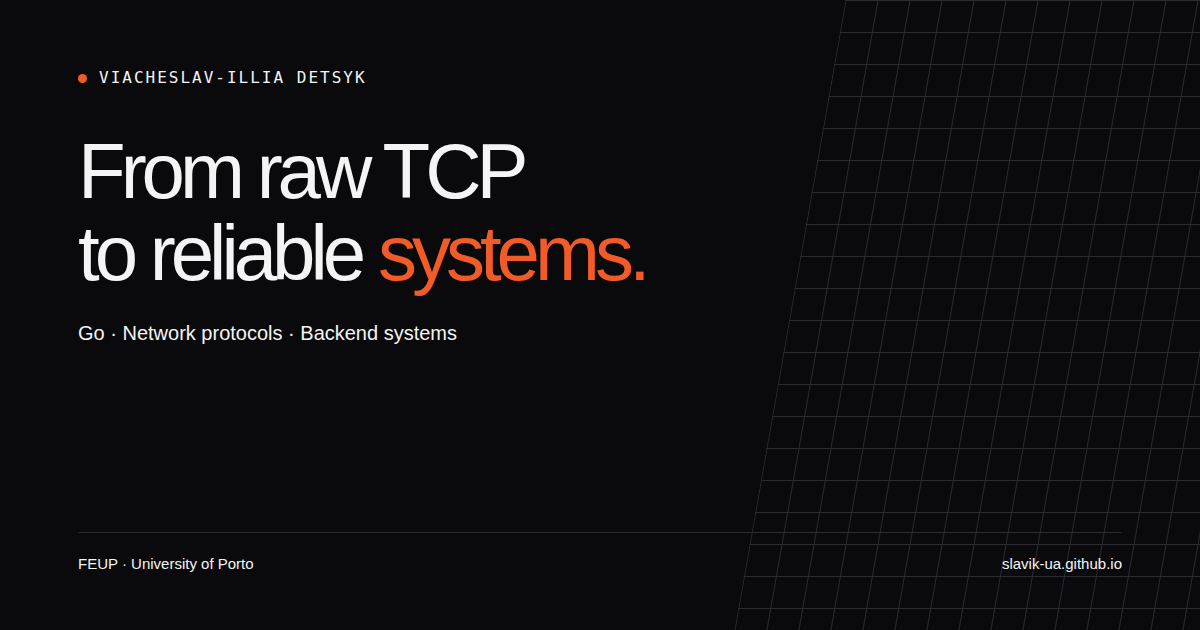
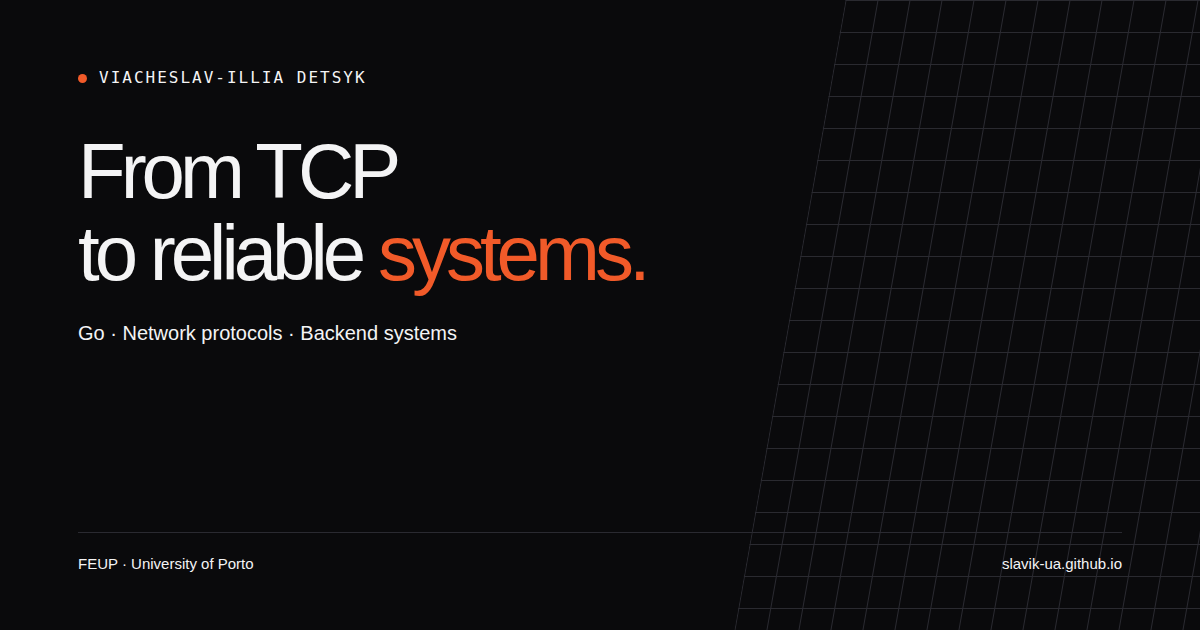
Separate skills and clarify verified project descriptions

Changed region(s): [[0.2158, 0.2111, 0.4625, 0.3317]]

diff --git a/index.html b/index.html
@@ -9,7 +9,7 @@
   <link rel="canonical" href="https://slavik-ua.github.io/">
   <meta property="og:type" content="website">
   <meta property="og:title" content="Viacheslav-Illia Detsyk — Backend &amp; Systems">
-  <meta property="og:description" content="From raw TCP to reliable systems. Go projects, network protocols, and a merged Linux kernel fix.">
+  <meta property="og:description" content="From TCP to reliable systems. Go projects, network protocols, and a merged Linux kernel fix.">
   <meta property="og:url" content="https://slavik-ua.github.io/">
   <meta property="og:image" content="https://slavik-ua.github.io/assets/social-card.png">
   <meta property="og:image:alt" content="Viacheslav-Illia Detsyk. Backend systems, network protocols, and Go.">
@@ -50,7 +50,7 @@
 
   <header class="site-header"><div class="container header-inner">
     <a class="identity" href="#top"><span class="identity-name">Viacheslav-Illia Detsyk</span></a>
-    <nav class="nav-links" id="navigation" aria-label="Main navigation"><a href="#work">Work</a><a href="#open-source">Open source</a><a href="#about">About</a><a href="#contact">Contact <svg class="icon " aria-hidden="true"><use href="#i-arrow"/></svg></a></nav>
+    <nav class="nav-links" id="navigation" aria-label="Main navigation"><a href="#work">Work</a><a href="#skills">Skills</a><a href="#open-source">Open source</a><a href="#about">About</a><a href="#contact">Contact <svg class="icon " aria-hidden="true"><use href="#i-arrow"/></svg></a></nav>
     <div class="header-profile" hidden><button id="copy-profile" type="button" class="button button-primary header-copy" hidden><svg class="icon" aria-hidden="true"><use href="#i-copy"/></svg> Copy profile for AI</button><span id="profile-status" role="status"></span></div>
     <div class="header-controls"><button id="theme-toggle" class="icon-button" type="button" aria-label="Switch theme" title="Switch theme" hidden><svg class="icon theme-sun" aria-hidden="true"><use href="#i-sun"/></svg><svg class="icon theme-moon" aria-hidden="true"><use href="#i-moon"/></svg></button><button class="menu-toggle" type="button" aria-expanded="false" aria-controls="navigation">Menu <svg class="icon " aria-hidden="true"><use href="#i-menu"/></svg></button></div>
   </div></header>
@@ -59,7 +59,7 @@
     <section class="hero container" id="top" aria-labelledby="hero-title">
       <div class="hero-copy">
         <p class="eyebrow">BACKEND &amp; SYSTEMS · PORTO, PT</p>
-        <h1 id="hero-title">From raw TCP<br>to reliable<br><span>systems.</span></h1>
+        <h1 id="hero-title">From TCP<br>to reliable<br><span>systems.</span></h1>
         <p class="hero-intro">I’m Viacheslav-Illia, a third-year engineering student at FEUP. I build in Go, explore how network protocols work, and care about getting the details right.</p>
         <div class="hero-actions"><a class="button button-primary" href="#work">Explore my work <svg class="icon" aria-hidden="true"><use href="#i-arrow"/></svg></a><a class="text-link" href="assets/viacheslav-illia-detsyk-resume.pdf" download>Download résumé <svg class="icon" aria-hidden="true"><use href="#i-down"/></svg></a></div>
         <p class="availability"><span aria-hidden="true"></span> Seeking a backend engineering internship</p>
@@ -90,7 +90,7 @@
           <p class="project-subtitle">A trading platform, from order to execution.</p>
           <p>A Go limit order book with price-time priority, partial fills, and cancellation, connected to a live market-depth dashboard.</p>
           <ul class="project-points">
-            <li><span>Correct arithmetic</span>8-decimal fixed-point balances and settlement.</li>
+            <li><span>Fixed-point amounts</span>8-decimal integer amounts for balances and trade settlement.</li>
             <li><span>Explicit event delivery</span>PostgreSQL outbox → Kafka-compatible Redpanda.</li>
             <li><span>Visibility into the system</span>Prometheus, Grafana, Redis Pub/Sub, and WebSockets.</li>
           </ul>
@@ -115,30 +115,36 @@
         <article class="secondary-project" aria-labelledby="torrent-title">
           <div class="project-card-top"><span class="project-icon"><svg class="icon " aria-hidden="true"><use href="#i-network"/></svg></span><span class="project-type mono">NETWORK PROTOCOLS</span><span class="mono project-serial">02</span></div>
           <h3 id="torrent-title">BitTorrent client</h3>
-          <p>Built with Go’s standard library: bencode parsing, HTTP/UDP trackers, and the peer protocol over raw TCP.</p>
-          <p class="project-detail">Concurrent downloads with verified-piece resume, retries, and cancellation. Tested failure paths with scripted peers, Go’s race detector, and a Docker swarm.</p>
+          <p>Built a Go client with bencode parsing, HTTP/UDP trackers, and the BitTorrent peer protocol over TCP sockets.</p>
+          <p class="project-detail">Added concurrent downloads, SHA-1 piece verification, retries, cancellation, and resume. Tested with scripted peers and Go’s race detector, plus a local tracker and Transmission peers.</p>
           <div class="project-card-bottom"><div class="tags"><span>Go</span><span>TCP / UDP</span><span>Concurrency</span></div><a class="icon-button" href="https://github.com/slavik-ua/BitTorrentClient" aria-label="View BitTorrent client source on GitHub"><svg class="icon " aria-hidden="true"><use href="#i-arrow"/></svg></a></div>
         </article>
 
         <article class="secondary-project" aria-labelledby="http-title">
           <div class="project-card-top"><span class="project-icon"><svg class="icon " aria-hidden="true"><use href="#i-terminal"/></svg></span><span class="project-type mono">PROTOCOL IMPLEMENTATION</span><span class="mono project-serial">03</span></div>
           <h3 id="http-title">HTTP/1.1, from TCP</h3>
-          <p>A Go server with a custom request parser and a response writer that enforces status, header, and body ordering.</p>
-          <p class="project-detail">Implemented chunked streaming, static files, and a reverse proxy that calculates SHA-256 checksums as it streams and sends them in HTTP trailers.</p>
+          <p>Built an HTTP/1.1 server in Go using TCP sockets, with custom request parsing and explicit response-writing order.</p>
+          <p class="project-detail">Added chunked responses, static file serving, and a streaming proxy that sends a SHA-256 checksum in HTTP trailers.</p>
           <div class="project-card-bottom"><div class="tags"><span>Go</span><span>HTTP / TCP</span><span>Streaming</span></div><a class="icon-button" href="https://github.com/slavik-ua/httpfromtcp" aria-label="View HTTP server source on GitHub"><svg class="icon " aria-hidden="true"><use href="#i-arrow"/></svg></a></div>
         </article>
       </div>
     </section>
 
+    <section class="section container skills-section" id="skills" aria-labelledby="skills-title">
+      <p class="eyebrow">02 / TECHNICAL SKILLS</p>
+      <div class="section-heading"><h2 id="skills-title">What I build with.</h2><p>Tools I use in my own projects and open-source work.</p></div>
+      <dl class="skills-list"><div><dt><svg class="icon" aria-hidden="true"><use href="#i-code"/></svg> Languages</dt><dd>Go, Python, Java, SQL, C/C++, TypeScript / JavaScript</dd></div><div><dt><svg class="icon" aria-hidden="true"><use href="#i-network"/></svg> Backend</dt><dd>PostgreSQL, Redis, Kafka / Redpanda, HTTP, WebSockets, sqlc</dd></div><div><dt><svg class="icon" aria-hidden="true"><use href="#i-terminal"/></svg> Tools</dt><dd>Docker, Linux, Git, Prometheus, Grafana</dd></div></dl>
+    </section>
+
     <section class="open-source-section" id="open-source" aria-labelledby="oss-title">
       <div class="container oss-inner">
-        <div><p class="eyebrow">02 / OPEN SOURCE</p><h2 id="oss-title">Linux kernel</h2></div>
+        <div><p class="eyebrow">03 / OPEN SOURCE</p><h2 id="oss-title">Linux kernel</h2></div>
         <div class="oss-detail"><p>Added a DMI quirk to the AMD ACP6x audio driver to enable the built-in microphone on Acer Nitro AN16-41 laptops. Merged upstream in November 2026.</p><a class="text-link" href="https://github.com/torvalds/linux/commit/05998d64426a8f245f267bafee434d8cb00a5cb6">View the merged contribution <svg class="icon" aria-hidden="true"><use href="#i-arrow"/></svg></a></div>
       </div>
     </section>
 
     <section class="section container about-section" id="about" aria-labelledby="about-title">
-      <p class="eyebrow">03 / A LITTLE ABOUT ME</p>
+      <p class="eyebrow">04 / A LITTLE ABOUT ME</p>
       <div class="about-grid">
         <div>
           <h2 id="about-title">Curious about<br>what’s underneath.</h2>
@@ -151,12 +157,11 @@
           <div class="education-record"><p class="mono">EDUCATION</p><h3>FEUP · University of Porto</h3><p>B.S. in Informatics and Computer Engineering</p><p class="education-meta">Feb 2024 — Jan 2028 (expected)<br>Current average: 16/20</p></div>
         </div>
       </div>
-          <dl class="skills-list"><div><dt><svg class="icon " aria-hidden="true"><use href="#i-code"/></svg> Languages</dt><dd>Go, Python, Java, SQL, C/C++, TypeScript / JavaScript</dd></div><div><dt><svg class="icon " aria-hidden="true"><use href="#i-network"/></svg> Backend</dt><dd>PostgreSQL, Redis, Kafka / Redpanda, HTTP, WebSockets, sqlc</dd></div><div><dt><svg class="icon " aria-hidden="true"><use href="#i-terminal"/></svg> Tools</dt><dd>Docker, Linux, Git, Prometheus, Grafana</dd></div></dl>
     </section>
 
     <section class="contact-section" id="contact" aria-labelledby="contact-title">
       <div class="container contact-inner">
-        <div><p class="eyebrow">04 / GET IN TOUCH</p><h2 id="contact-title">Let’s talk <span>systems.</span></h2><p>Have a backend internship in mind? I’d like to hear about it.</p></div>
+        <div><p class="eyebrow">05 / GET IN TOUCH</p><h2 id="contact-title">Let’s talk <span>systems.</span></h2><p>Have a backend internship in mind? I’d like to hear about it.</p></div>
         <div class="contact-actions"><a class="button button-primary" href="mailto:detsykvyacheslav@gmail.com"><svg class="icon " aria-hidden="true"><use href="#i-mail"/></svg> Send me an email <svg class="icon " aria-hidden="true"><use href="#i-arrow"/></svg></a><div class="email-row"><a href="mailto:detsykvyacheslav@gmail.com">detsykvyacheslav@gmail.com</a><button id="copy-email" class="icon-button" type="button" aria-label="Copy email address" hidden><svg class="icon " aria-hidden="true"><use href="#i-copy"/></svg></button></div><span id="copy-status" class="copy-status" role="status"></span></div>
       </div>
     </section>

diff --git a/styles.css b/styles.css
@@ -110,6 +110,8 @@ p + p { margin-top: 16px; }
 .facts-inner .icon { width: 14px; height: 14px; margin-left: 10px; color: var(--accent-ink); }
 .facts-inner > a:hover { color: var(--accent-ink); }
 .section { padding-block: 80px; }
+.section.skills-section { padding-top: 0; }
+.skills-section .skills-list { margin-top: 0; }
 .section-topline { display: flex; gap: 20px; align-items: center; justify-content: space-between; }
 .section-heading { display: flex; justify-content: space-between; gap: 35px; align-items: end; margin-block: 23px 34px; }
 .section-heading h2, .about-section h2, .contact-section h2 { font-size: clamp(34px, 3.7vw, 48px); font-weight: 500; letter-spacing: -.055em; }

diff --git a/PLAN.md b/PLAN.md
@@ -7,8 +7,9 @@ Give backend and systems internship reviewers a quick introduction and concrete 
 ## Content, in visitor order
 
 1. **Introduction:** Viacheslav-Illia Detsyk; third-year FEUP student in Porto seeking a backend internship. Lead with Go, network protocols, and backend systems. Make selected work and the résumé easy to reach.
-2. **Portrait-led opening:** “From raw TCP to reliable systems” and the introduction on the left; the user's portrait on the right, with text and rectangular corner markers. No orange curve, grid overlay, or dot in the hero label. Stack the portrait below the introduction on mobile. Omit decorative project diagrams.
+2. **Portrait-led opening:** “From TCP to reliable systems” and the introduction on the left; the user's portrait on the right, with text and rectangular corner markers. No orange curve, grid overlay, or dot in the hero label. Stack the portrait below the introduction on mobile. Omit decorative project diagrams.
 3. **Selected work:** one featured OBMINNIK presentation with its real dashboard screenshot and engineering notes; compact BitTorrent and HTTP/1.1 projects with concrete implementation and testing details. Link directly to source repositories.
+   Follow projects with a standalone **Technical Skills** section: languages, backend technologies, and tools used in personal projects and open-source work. Link it from the main navigation and keep it outside Education.
 4. **Open source:** a concise paragraph and link to the Linux AMD ACP6x DMI quirk for the Acer Nitro AN16-41, merged in November 2026. No code panel or oversized presentation.
 5. **About and education:** FEUP, degree in progress, expected January 2028 graduation, current average 16/20 in regular type; relevant languages and tools. Keep the biography focused on current work; omit current age and starting age as requested.
 6. **Contact:** email, GitHub, LinkedIn, and the current downloadable résumé. No nonfunctional form, invented writing, testimonials, or availability dates.
